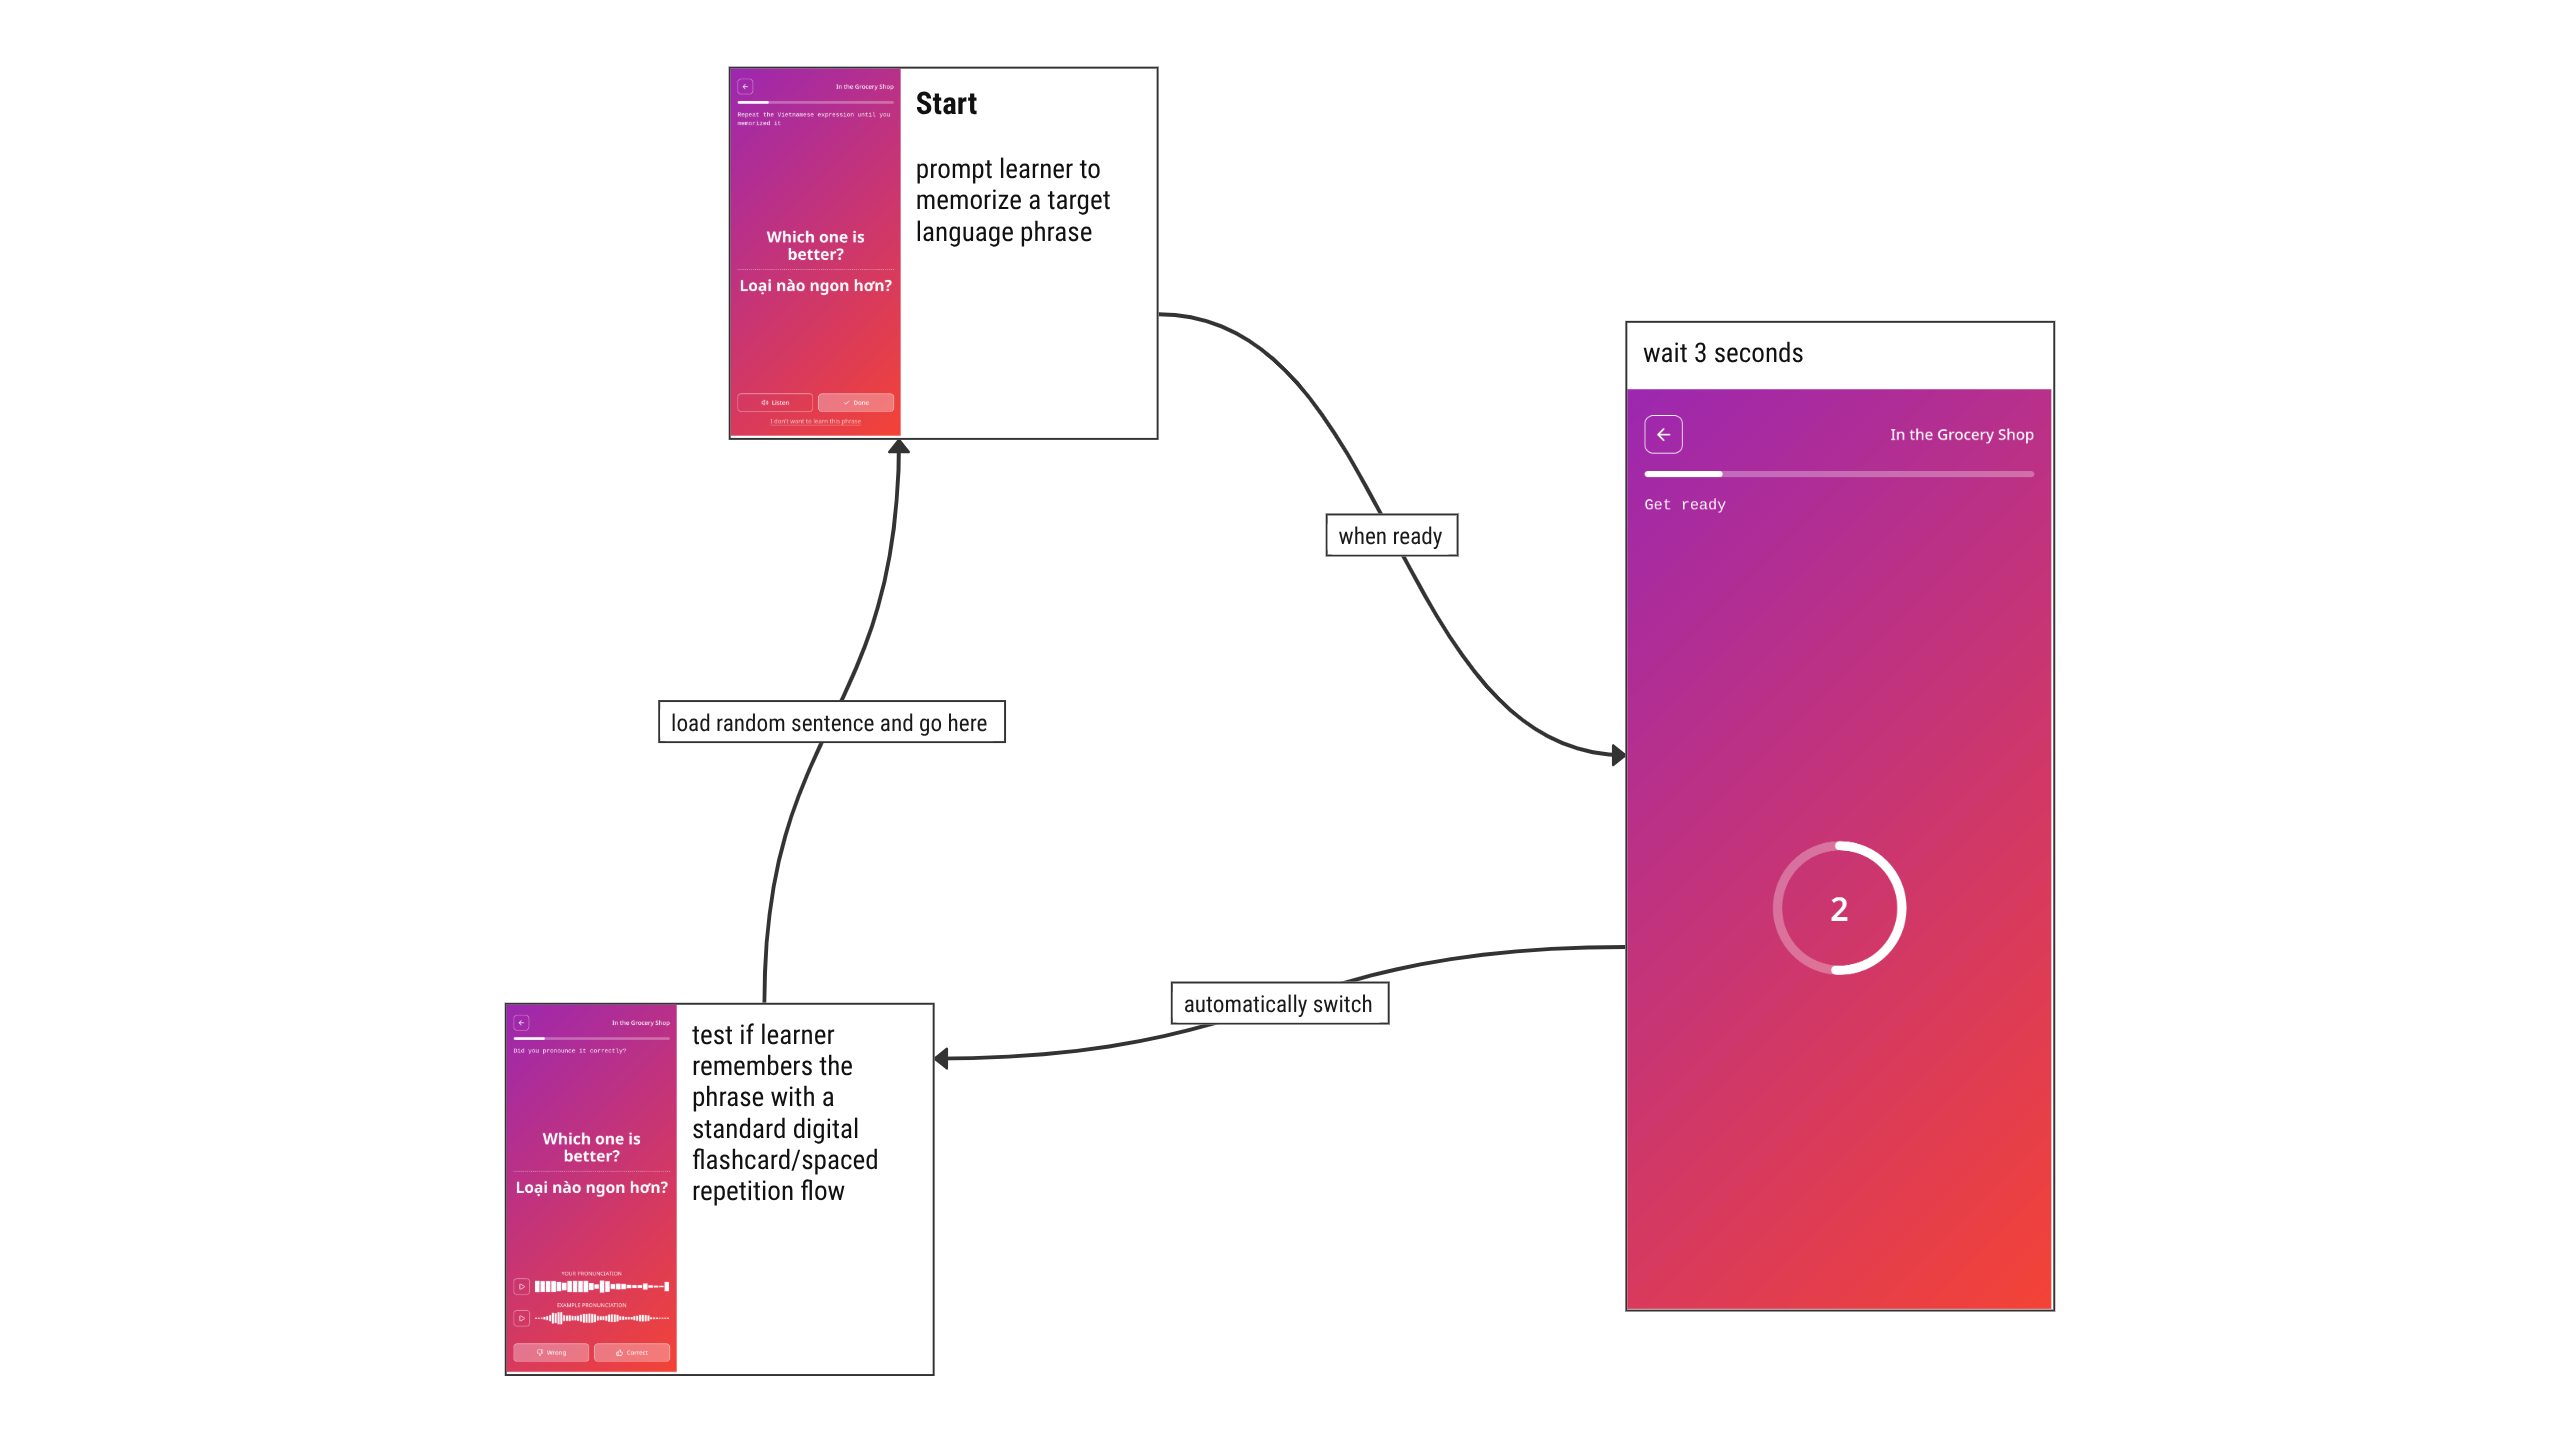
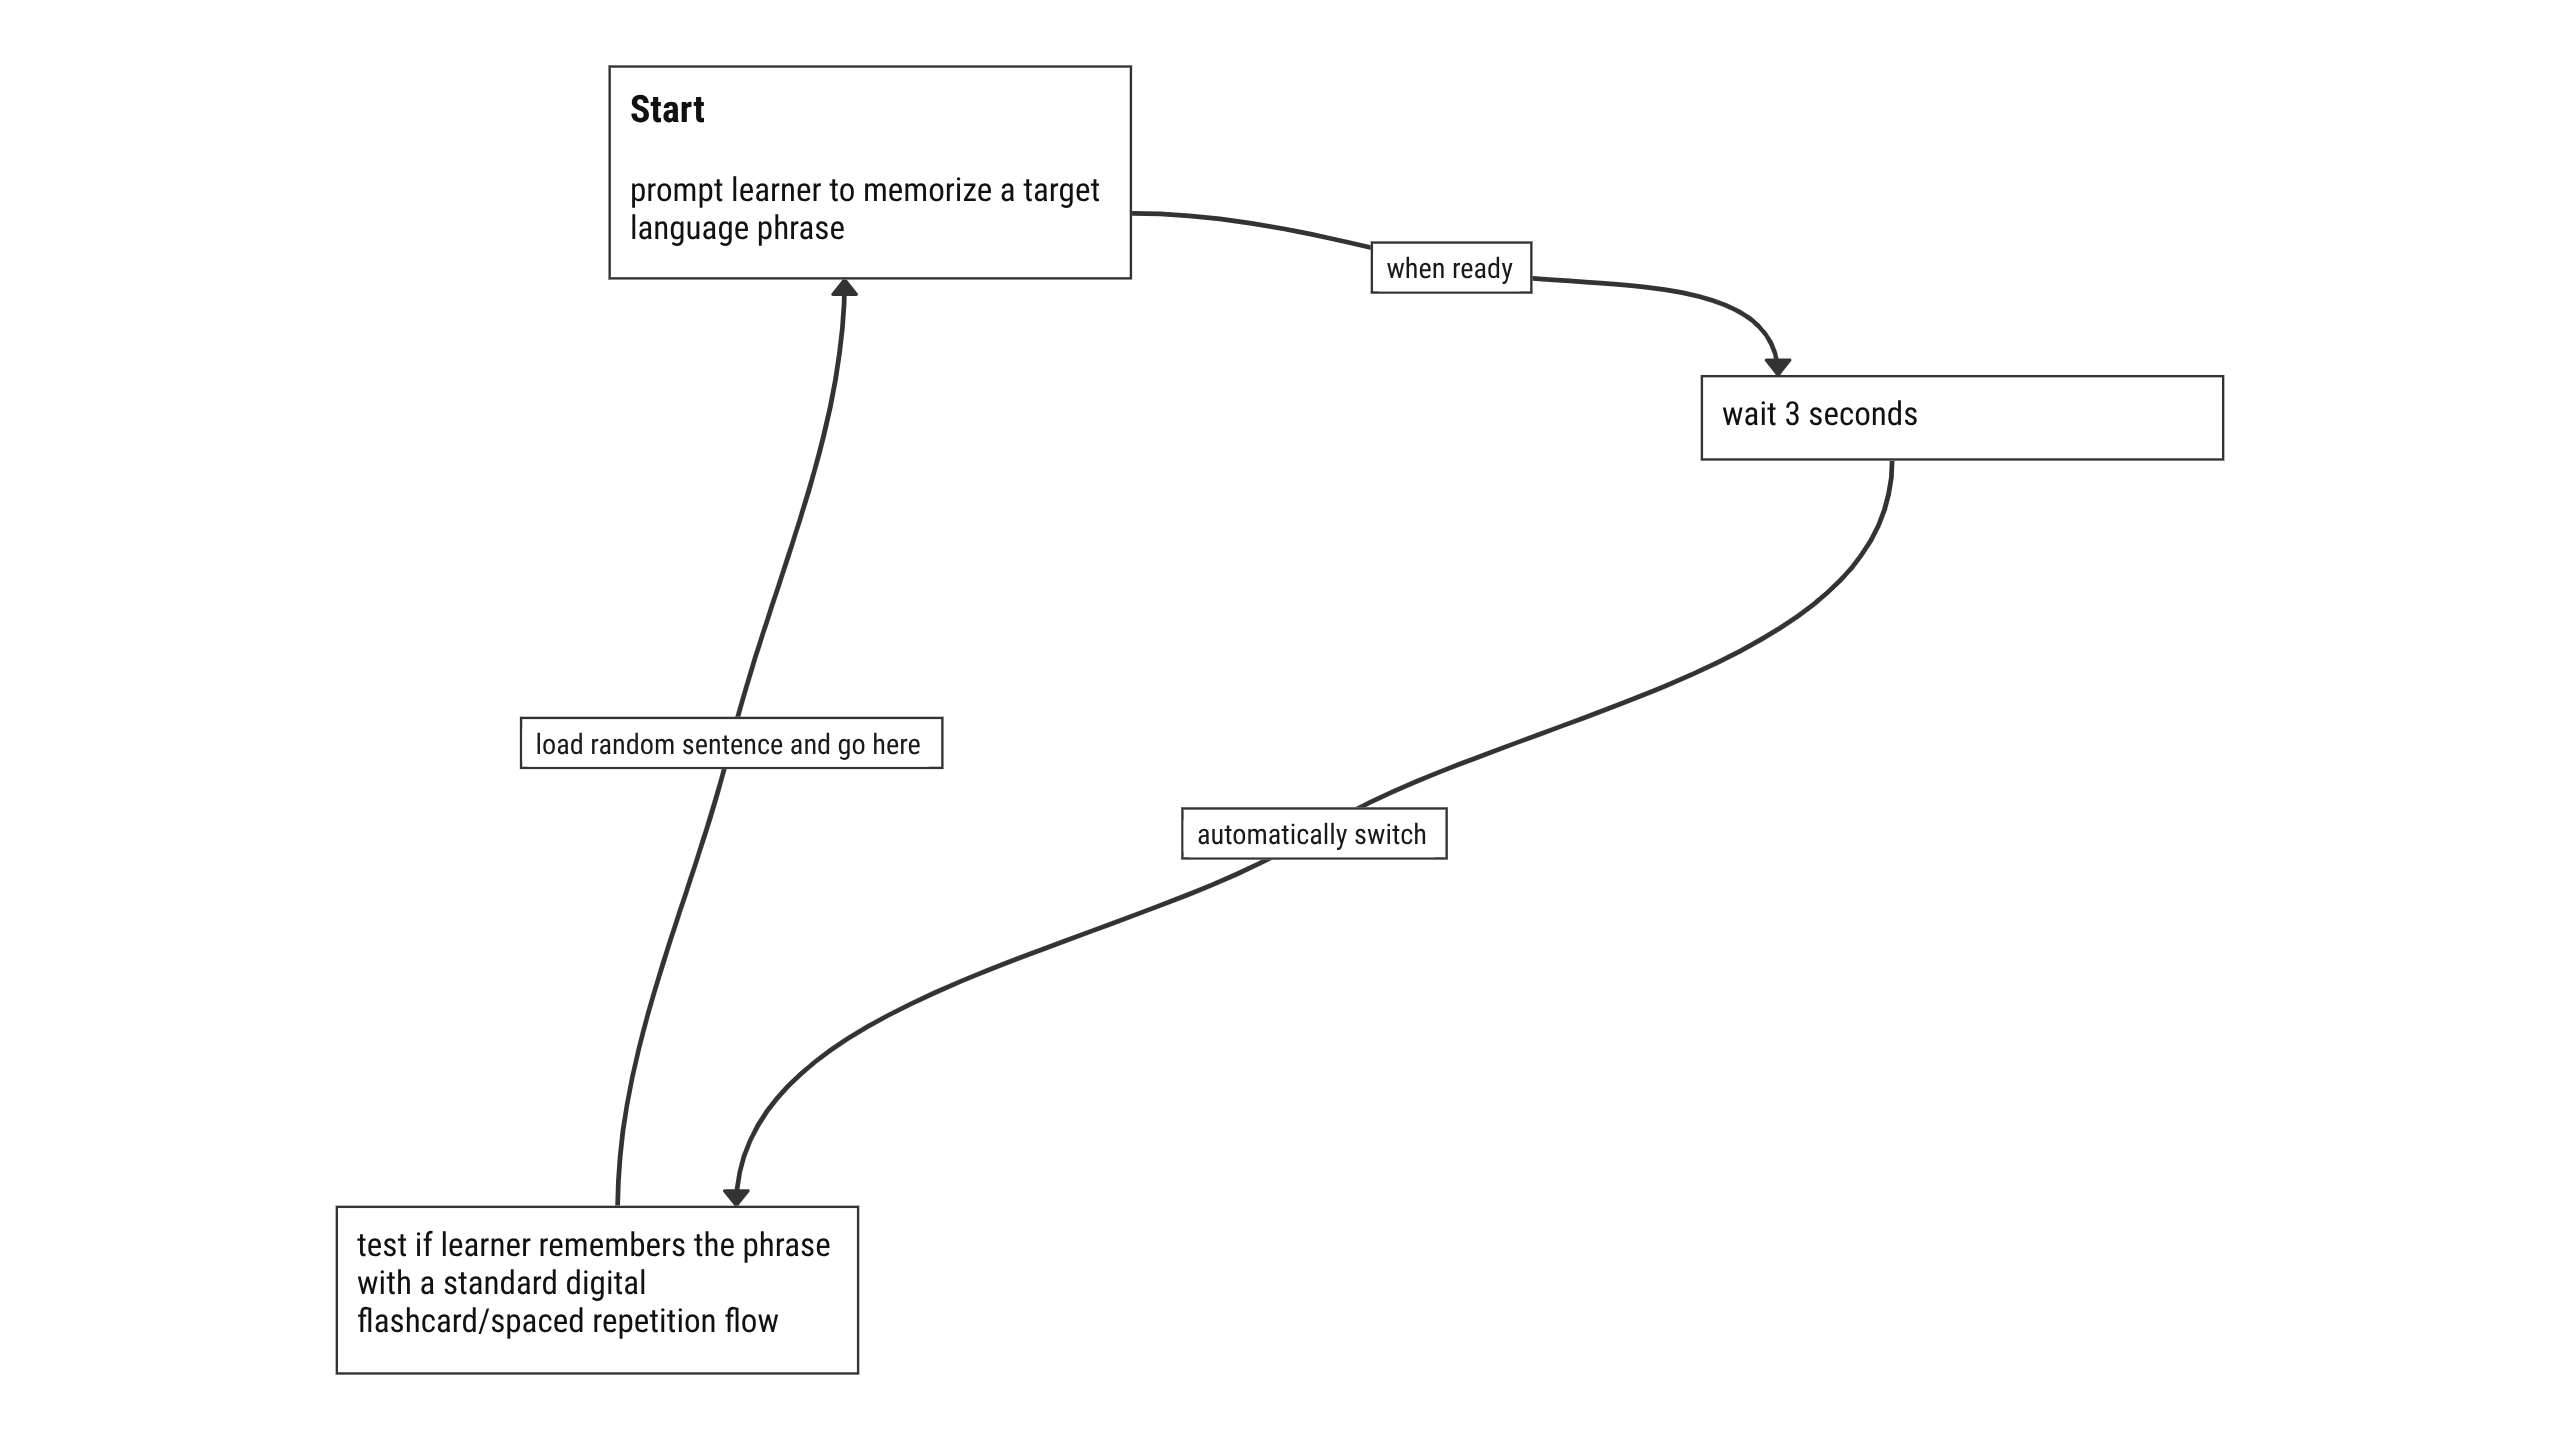
switch to very pretty cubic bezier edges

diff --git a/src/canvas/FloatingEdge.tsx b/src/canvas/FloatingEdge.tsx
@@ -6,6 +6,28 @@ import { useEditableValue } from '../hooks/useEditableValue';
 import { getEdgeParams } from './edgeGeometry';
 import { useFlowInteraction } from './FlowInteractionContext';
 
+function getOutwardDirection(position: Position) {
+  switch (position) {
+    case Position.Left:
+      return { x: -1, y: 0 };
+    case Position.Right:
+      return { x: 1, y: 0 };
+    case Position.Top:
+      return { x: 0, y: -1 };
+    case Position.Bottom:
+      return { x: 0, y: 1 };
+  }
+}
+
+function normalize(x: number, y: number) {
+  const length = Math.hypot(x, y) || 1;
+  return { x: x / length, y: y / length };
+}
+
+function controlLength(distance: number) {
+  return Math.min(90, Math.max(18, distance / 3));
+}
+
 function offsetEndpoint(
   node: InternalNode,
   position: Position,
@@ -90,22 +112,56 @@ function FloatingEdge({ id, source, target, data, style, markerEnd }: EdgeProps<
   );
   const { x: sx, y: sy } = sourcePoint;
   const { x: tx, y: ty } = targetPoint;
-  const dx = tx - sx;
-  const dy = ty - sy;
-  const distance = Math.hypot(dx, dy) || 1;
   const baseMidpointX = (edgeParams.sx + edgeParams.tx) / 2;
   const baseMidpointY = (edgeParams.sy + edgeParams.ty) / 2;
   const manualLabelX = baseMidpointX + (data?.labelOffset?.x ?? 0);
   const manualLabelY = baseMidpointY + (data?.labelOffset?.y ?? 0);
-  const controlX = data?.labelOffset
-    ? 2 * manualLabelX - (sx + tx) / 2
-    : (sx + tx) / 2 + (-dy / distance) * curveOffset;
-  const controlY = data?.labelOffset
-    ? 2 * manualLabelY - (sy + ty) / 2
-    : (sy + ty) / 2 + (dx / distance) * curveOffset;
-  const path = `M ${sx},${sy} Q ${controlX},${controlY} ${tx},${ty}`;
-  const labelX = (sx + 2 * controlX + tx) / 4;
-  const labelY = (sy + 2 * controlY + ty) / 4;
+  const endpointDx = tx - sx;
+  const endpointDy = ty - sy;
+  const endpointDistance = Math.hypot(endpointDx, endpointDy) || 1;
+  const labelX = data?.labelOffset
+    ? manualLabelX
+    : (sx + tx) / 2 + (-endpointDy / endpointDistance) * curveOffset * 0.5;
+  const labelY = data?.labelOffset
+    ? manualLabelY
+    : (sy + ty) / 2 + (endpointDx / endpointDistance) * curveOffset * 0.5;
+
+  const sourceToLabel = normalize(labelX - sx, labelY - sy);
+  const labelToTarget = normalize(tx - labelX, ty - labelY);
+  const chordDirection = normalize(endpointDx, endpointDy);
+  const tangentSumX = sourceToLabel.x + labelToTarget.x;
+  const tangentSumY = sourceToLabel.y + labelToTarget.y;
+  const midpointTangent = Math.hypot(tangentSumX, tangentSumY) > 0.001
+    ? normalize(tangentSumX, tangentSumY)
+    : chordDirection;
+  const sourceDirection = getOutwardDirection(edgeParams.sourcePos);
+  const targetDirection = getOutwardDirection(edgeParams.targetPos);
+  const sourceDistance = Math.hypot(labelX - sx, labelY - sy);
+  const targetDistance = Math.hypot(tx - labelX, ty - labelY);
+  const sourceControlLength = controlLength(sourceDistance);
+  const targetControlLength = controlLength(targetDistance);
+
+  const sourceControl = {
+    x: sx + sourceDirection.x * sourceControlLength,
+    y: sy + sourceDirection.y * sourceControlLength,
+  };
+  const labelIncomingControl = {
+    x: labelX - midpointTangent.x * sourceControlLength,
+    y: labelY - midpointTangent.y * sourceControlLength,
+  };
+  const labelOutgoingControl = {
+    x: labelX + midpointTangent.x * targetControlLength,
+    y: labelY + midpointTangent.y * targetControlLength,
+  };
+  const targetControl = {
+    x: tx + targetDirection.x * targetControlLength,
+    y: ty + targetDirection.y * targetControlLength,
+  };
+  const path = [
+    `M ${sx},${sy}`,
+    `C ${sourceControl.x},${sourceControl.y} ${labelIncomingControl.x},${labelIncomingControl.y} ${labelX},${labelY}`,
+    `C ${labelOutgoingControl.x},${labelOutgoingControl.y} ${targetControl.x},${targetControl.y} ${tx},${ty}`,
+  ].join(' ');
 
   const handleLabelDrag = (event: ReactPointerEvent<HTMLButtonElement>) => {
     if (event.buttons !== 1) return;
